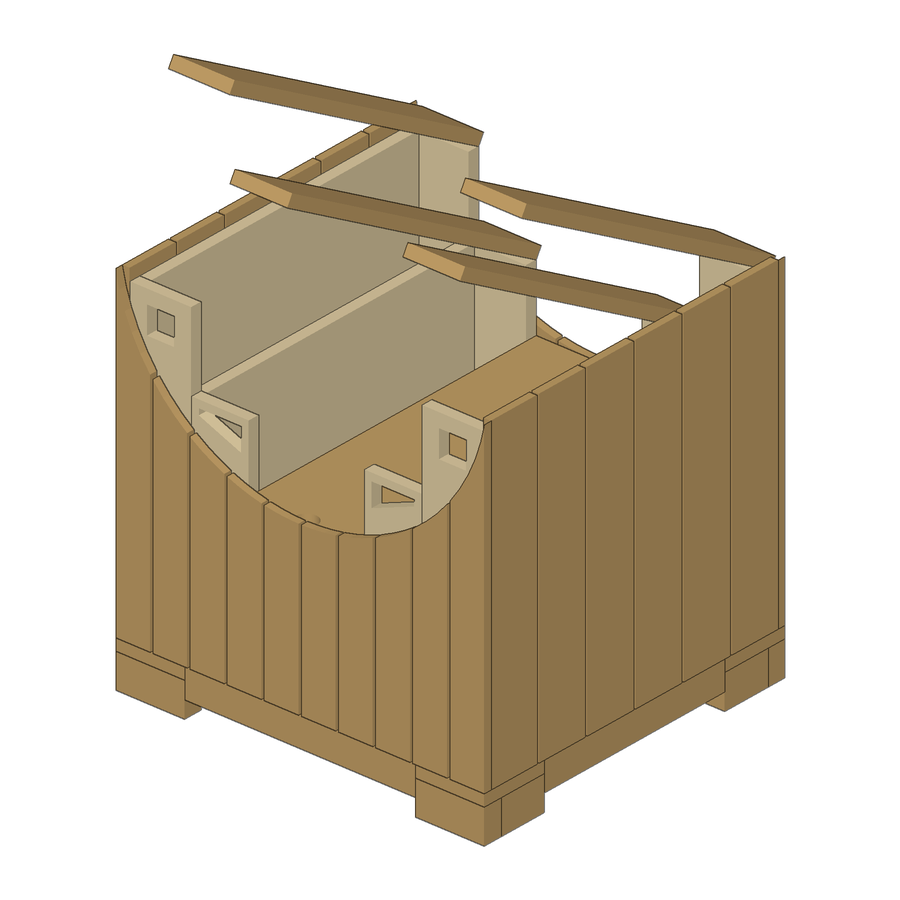
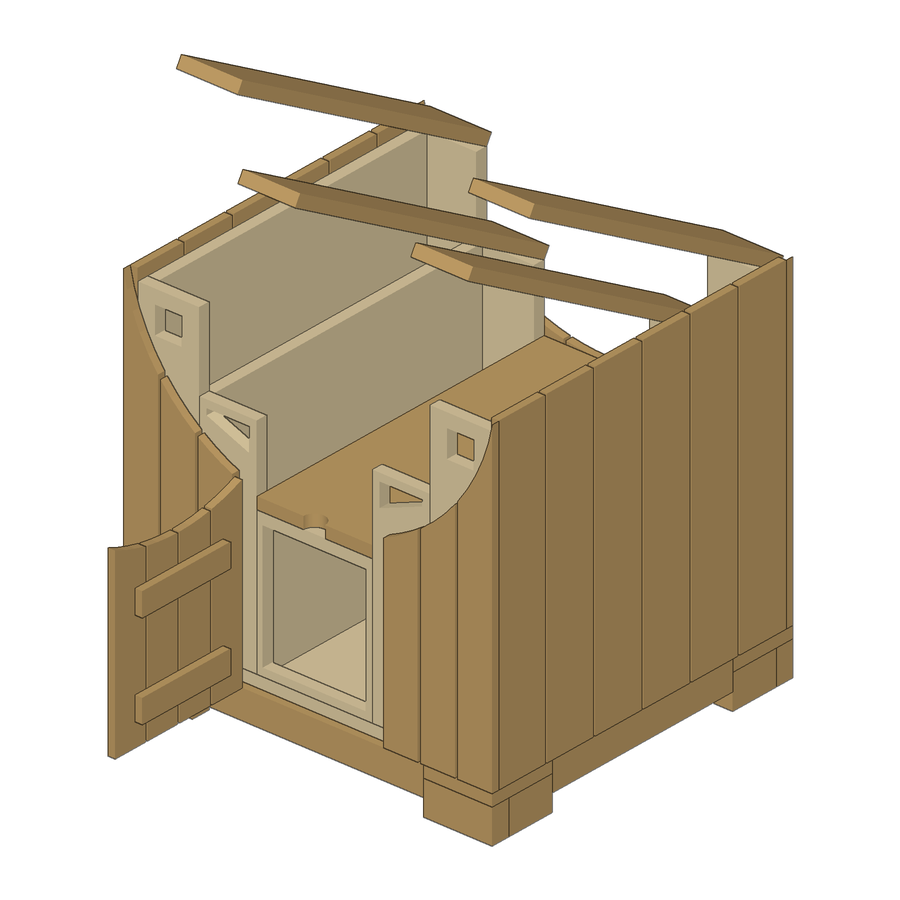
Front door: push-to-open, nothing visible on the face
Replace the round finger hole with a hidden magnetic push latch so the door reads as plain slats.
door_pull="bar" adds a slim vertical oak pull instead. The hinged door, final POSE pass for hinge
poses in Fusion, and a regenerated package, drawings and Fusion renders are included.

Claude-Session: https://claude.ai/code/session_017uaZNskFZj1b2HNuTtwSco

Changed region(s): [[0.0933, 0.0622, 0.9022, 0.9333], [0.5289, 0.9333, 0.56, 0.9644]]

diff --git a/src/fusionwright/cabinet.py b/src/fusionwright/cabinet.py
@@ -4,6 +4,8 @@ What the sketch shows and this generator models:
   * 24" W x 24" H x 22.5" D, vertical oak slats on all four sides (10 across front/back, 6 per side)
   * a large circular scoop: the front (and, by default, back) slat tops follow one arc from the two top corners
     down to the centre height, so the slats are real arc-cut parts
+  * a hinged front door in the middle section (the framed panel under the scoop in the 3/4 view): the four centre
+    slats on two oak battens, hinged on the left, push-to-open (no visible pull), opening onto the centre compartment
   * five hinged lids/doors side by side at three heights: towers 24", steps 19", centre 14"
   * stepped plywood carcass behind the slats; the carcass boxes stand proud of the arc; dark square openings on the
     tower fronts and dark wedge openings on the step fronts act as the finger pulls
@@ -50,6 +52,9 @@ def build_cabinet(
     arc_on_back: bool = True,
     open_deg: float = 0.0,
     open_sections: tuple[int, ...] = (0, 1, 3, 4),
+    door: bool = True,
+    door_open_deg: float = 0.0,
+    door_pull: str = "push",
     name: str = "Rolling oak slat cabinet",
 ) -> Project:
     inner_w = width - 2 * skin_t
@@ -74,6 +79,10 @@ def build_cabinet(
         raise ValueError(f"foot_arm must be at least {cs + 1.0} in so the L walls hide the caster.")
     if not 1 <= front_slats <= 40 or not 1 <= side_slats <= 40:
         raise ValueError("front_slats and side_slats must be between 1 and 40.")
+    if door_pull not in ("push", "bar"):
+        raise ValueError("door_pull must be 'push' (push-to-open, nothing visible) or 'bar' (slim vertical pull).")
+    if not 0.0 <= door_open_deg <= 120.0:
+        raise ValueError("door_open_deg must be between 0 and 120 degrees (0 = closed).")
 
     # scoop arc through the two top corners, lowest at the centre
     half, sag = width / 2, tower_h - center_h
@@ -102,7 +111,8 @@ def build_cabinet(
         params=dict(width=width, depth=depth, tower_h=tower_h, step_h=step_h, center_h=center_h, skin_t=skin_t,
                     front_slats=front_slats, side_slats=side_slats, slat_gap=slat_gap, ply_t=ply_t, lid_t=lid_t,
                     base_z=base_z, caster_h=caster_h, plate_t=plate_t, foot_arm=foot_arm, foot_t=foot_t,
-                    foot_clear=foot_clear, apron_z=apron_z, arc_on_back=arc_on_back, open_deg=open_deg,
+                    foot_clear=foot_clear, apron_z=apron_z, arc_on_back=arc_on_back, open_deg=open_deg, door=door,
+                    door_open_deg=door_open_deg, door_pull=door_pull,
                     section_widths=[round(w, 4) for w in section_widths], scoop_radius=round(R, 4),
                     scoop_sag=sag),
     )
@@ -110,6 +120,8 @@ def build_cabinet(
 
     def box_board(nm, group, mat, x, y, z, sx, sy, sz, grain="z", note=""):
         add(Board(nm, group, mat, x, y, z, sx, sy, sz, grain, None, None, note))
+
+    door_open_box: dict[str, float] = {}
 
     # ---------------------------------------------------------------- plywood carcass (my proposal)
     box_board("Bottom panel", "bottom panel", PLY, skin_t, skin_t, base_z, inner_w, inner_d, ply_t, "x")
@@ -124,6 +136,12 @@ def build_cabinet(
                 top = wall_top - 0.9
                 ops.append(sh.box(cx - s / 2, y0 - 0.05, top - s, s, ply_t + 0.1, s, "cut"))
                 note = "1-3/4 in square finger opening"
+            elif side == "Front" and i == 2 and door:              # access opening behind the front door
+                ox0, ox1 = sx0 + 0.4, sx0 + sw - 0.4
+                oz0, oz1 = carcass_z + 0.5, wall_top - 0.75
+                ops.append(sh.box(ox0, y0 - 0.05, oz0, ox1 - ox0, ply_t + 0.1, oz1 - oz0, "cut"))
+                note = "door opening, 6-3/4 in wide"
+                door_open_box.update(x0=ox0, x1=ox1, z0=oz0, z1=oz1)
             elif side == "Front" and i in (1, 3):                  # wedge opening on the step boxes
                 m, zt = 0.5, wall_top - 0.5
                 xa, xb = sx0 + m, sx0 + sw - m
@@ -159,6 +177,16 @@ def build_cabinet(
 
     # ---------------------------------------------------------------- vertical oak slats, four sides
     sw_x, pitch_x = _slats(width, front_slats, slat_gap)
+    # front slats whose centre falls inside the centre section form the door
+    door_js = [j for j in range(front_slats)
+               if door and x_edges[2] < j * pitch_x + sw_x / 2 < x_edges[3]]
+    if door and not door_js:
+        raise ValueError("The centre section is too narrow for a door: use fewer front_slats or a wider section.")
+    door_x0 = door_js[0] * pitch_x if door_js else 0.0
+    door_x1 = door_js[-1] * pitch_x + sw_x if door_js else 0.0
+    door_rot = None
+    if door_js and door_open_deg:                     # swing outward about the front-left corner (right-hand about +Z)
+        door_rot = {"o": [door_x0, 0.0, 0.0], "ax": [0.0, 0.0, 1.0], "deg": -float(door_open_deg)}
     for side, ya, yb, arc in (("front", 0.0, skin_t, True), ("back", depth - skin_t, depth, arc_on_back)):
         for j in range(front_slats):
             x0 = j * pitch_x
@@ -171,8 +199,28 @@ def build_cabinet(
             else:
                 path = sh.polygon([(x0, base_z), (x1, base_z), (x1, tower_h), (x0, tower_h)])
                 note = ""
-            add(Board.from_shape(f"Slat {side} {j + 1:02d}", f"{side} slat", OAK, [sh.prism("xz", path, ya, yb)],
-                                 None, "z", note))
+            ops = [sh.prism("xz", path, ya, yb)]
+            rot, label = None, f"Slat {side} {j + 1:02d}"
+            if side == "front" and j in door_js:
+                rot, label = door_rot, f"Slat front {j + 1:02d} (door)"
+                note += "; part of the front door"
+            add(Board.from_shape(label, f"{side} slat", OAK, ops, rot, "z", note))
+    if door_js:
+        bx0, bx1 = door_open_box["x0"] + 0.05, door_open_box["x1"] - 0.05      # battens sit inside the opening
+        for k, (zc, nm) in enumerate(((door_open_box["z0"] + 1.0, "low"), (door_open_box["z1"] - 1.0, "high"))):
+            add(Board.from_shape(f"Door batten {nm}", "door batten", OAK,
+                                 [sh.box(bx0, skin_t, zc - 0.75, bx1 - bx0, 0.5, 1.5)], door_rot, "x",
+                                 "ties the four door slats together; fasten from the back"))
+        p.hardware.append({"item": "Butt hinge 1-1/2 in (door, on the left edge)", "qty": 2, "for": "Front door"})
+        if door_pull == "bar":                        # slim vertical oak pull on the free edge (adds 1/2 in of depth)
+            zc = (door_open_box["z0"] + door_open_box["z1"]) / 2
+            add(Board.from_shape("Door pull bar", "door pull", OAK,
+                                 [sh.box(door_x1 - 1.0, -0.5, zc - 3.0, 0.5, 0.5, 6.0)], door_rot, "z",
+                                 "slim vertical grab bar, screwed from the back of the slats; adds 1/2 in to the depth"))
+            p.hardware.append({"item": "Magnetic catch (door)", "qty": 1, "for": "Front door"})
+        else:                                         # push-to-open: no visible pull at all
+            p.hardware.append({"item": "Push-to-open latch, magnetic, hidden behind the door (door)", "qty": 1,
+                               "for": "Front door"})
     sw_y, pitch_y = _slats(inner_d, side_slats, slat_gap)
     for side, xa in (("left", 0.0), ("right", width - skin_t)):
         for j in range(side_slats):
@@ -220,6 +268,9 @@ def build_cabinet(
     p.hardware.append({"item": f"Swivel caster, {caster_h} in overall height (2 locking)", "qty": 4, "for": "feet"})
 
     p.notes += [
+        "Front door: the framed panel under the scoop in the 3/4 view is read as an access door to the centre compartment "
+        "(four slats on two battens, hinged on the left, push-to-open so nothing shows on the front). The other compartments open through their lids. "
+        "Set door=False for no door, door_open_deg=90 to show it open.",
         "Read from the sketch: arc-cut slat tops, five lids at 24/19/14 in, stepped boxes, L-shaped corner feet hiding "
         "four casters (plate screwed under a top plate), slats stopping above the floor on an apron.",
         "Interpretations to confirm with the designer: the dark squares (tower fronts) and dark wedges (step fronts) "

diff --git a/src/fusionwright/server.py b/src/fusionwright/server.py
@@ -246,18 +246,23 @@ def wood_design_cabinet(width: float = 24.0, depth: float = 22.5, tower_h: float
                         center_h: float = 14.0, front_slats: int = 10, side_slats: int = 6, slat_gap: float = 0.15,
                         skin_t: float = 0.5, ply_t: float = 0.75, lid_t: float = 0.75, base_z: float = 3.25,
                         caster_h: float = 2.5, foot_arm: float = 4.5, arc_on_back: bool = True,
-                        open_deg: float = 0.0, section_widths: list[float] | None = None,
+                        open_deg: float = 0.0, door: bool = True, door_open_deg: float = 0.0,
+                        door_pull: str = "push",
+                        section_widths: list[float] | None = None,
                         name: str = "Rolling oak slat cabinet") -> dict:
     """Design the rolling oak-slat cabinet from the hand sketch (inches): vertical oak slats on four sides, a circular
     scoop cut through the slat tops, five hinged lids at 24/19/14 in, stepped plywood boxes with finger openings,
-    and four L-shaped corner feet that hide swivel casters. open_deg shows the lids hinged open (try 30).
+    a push-to-open front door onto the centre compartment (door_open_deg=90 shows it open; door_pull='bar' adds a
+    slim vertical pull), and four L-shaped corner feet
+    that hide swivel casters. open_deg shows the lids hinged open (try 30).
     Writes cut list, three-view drawing, sheet layout, STL, OBJ, project.json and, if CadQuery is installed, an exact
     STEP plus preview images."""
     try:
         p = build_cabinet(width=width, depth=depth, tower_h=tower_h, step_h=step_h, center_h=center_h,
                           front_slats=front_slats, side_slats=side_slats, slat_gap=slat_gap, skin_t=skin_t,
                           ply_t=ply_t, lid_t=lid_t, base_z=base_z, caster_h=caster_h, foot_arm=foot_arm,
-                          arc_on_back=arc_on_back, open_deg=open_deg, section_widths=section_widths, name=name)
+                          arc_on_back=arc_on_back, open_deg=open_deg, door=door, door_open_deg=door_open_deg, door_pull=door_pull,
+                          section_widths=section_widths, name=name)
     except ValueError as e:
         raise ToolError(str(e))
     d, engine = _save(p)
@@ -297,15 +302,16 @@ def wood_build_in_fusion(project: str = "") -> dict:
     boards = [b.__dict__ for b in p.boards]
     terms = {"oak": ["oak"], "ply": ["birch", "plywood", "maple", "pine"], "steel": ["steel"],
              "rubber": ["rubber", "black"]}
-    made = rotated = 0
+    made = 0
     for start in range(0, len(boards), 12):
         r = _fusion(S.BUILD, boards=boards, start=start, end=start + 12, appearance_terms=terms)
         made += r["made"]
-        rotated += r.get("rotated", 0)
+    rots = [{"name": b.name, "rot": b.rot} for b in p.boards if b.rot]
+    rotated = _fusion(S.POSE, rots=rots)["posed"] if rots else 0
     cuts = _fusion(S.CUTS, features=p.features)["finger_pulls_cut"] if p.features else []
     w, d, h = p.overall()
     check = fusion_check(expected_size_in=[w, d, h])
-    return {"parts_built": made, "hinged_open": rotated, "finger_pulls": len(cuts), "verification": check}
+    return {"parts_built": made, "posed_open": rotated, "finger_pulls": len(cuts), "verification": check}
 
 
 # ------------------------------------------------------------------ open-source CAD tools (CadQuery, no Fusion)

diff --git a/tests/unit/test_core.py b/tests/unit/test_core.py
@@ -43,7 +43,24 @@ def test_sketch_details_are_present():
     assert sum(n.endswith("wheel") for n in names) == 4 and sum(n.endswith("top plate") for n in names) == 4
     # wedge and square openings are cuts through the plywood fronts
     cuts = [b for b in p.boards if b.shape and any(o["op"] == "cut" for o in b.shape)]
-    assert len(cuts) >= 5
+    assert len(cuts) >= 6
+
+
+def test_front_door_opens_onto_the_centre_compartment():
+    p = build_cabinet()
+    door = [b for b in p.boards if "(door)" in b.name]
+    assert len(door) == 4 and sum(b.name.startswith("Door batten") for b in p.boards) == 2
+    wall = next(b for b in p.boards if b.name == "Front wall S3")
+    assert any(o["op"] == "cut" for o in wall.shape)                     # the opening the door covers
+    assert any("Push-to-open" in h["item"] for h in p.hardware)           # nothing visible on the front
+    assert not any(o["k"] == "cyl" and o["op"] == "cut" for b in door for o in b.shape)    # no hole, no pull
+    bar = build_cabinet(door_pull="bar")
+    assert any(b.name == "Door pull bar" for b in bar.boards) and bar.overall()[1] > 22.5
+    assert all(b.rot is None for b in door)                              # closed by default
+    opened = build_cabinet(door_open_deg=90)
+    assert all(b.rot and b.rot["deg"] == -90 for b in opened.boards if "(door)" in b.name or b.name.startswith("Door batten"))
+    assert opened.overall()[1] > 22.5 + 8                                # swings outward, clear of the front
+    assert not any("(door)" in b.name for b in build_cabinet(door=False).boards)
 
 
 def test_open_pose_rotates_the_lids_and_still_fits():
@@ -114,7 +131,7 @@ def test_stl_winding_is_outward_for_boxes_arcs_and_cylinders():
         a, b, c = v[i], v[i + 1], v[i + 2]
         vol += (a[0] * (b[1] * c[2] - b[2] * c[1]) - a[1] * (b[0] * c[2] - b[2] * c[0]) + a[2] * (b[0] * c[1] - b[1] * c[0])) / 6
     assert vol > 3000 and vol == pytest.approx(mesh_volume(p), rel=1e-6)
-    assert skipped_cuts(p) == 5                       # this fallback leaves cuts out and says so
+    assert skipped_cuts(p) == 6                       # this fallback leaves cuts out and says so
     assert to_obj(p).count("\no ") > 80
 
 
@@ -148,6 +165,10 @@ def test_bad_params_are_explained():
         build_cabinet(center_h=30)
     with pytest.raises(ValueError, match="base_z"):
         build_cabinet(base_z=2.0)
+    with pytest.raises(ValueError, match="door_pull"):
+        build_cabinet(door_pull="knob")
+    with pytest.raises(ValueError, match="door_open_deg"):
+        build_cabinet(door_open_deg=200)
     with pytest.raises(ValueError, match="foot_arm"):
         build_cabinet(foot_arm=3.5)
 

diff --git a/src/fusionwright/backends/fusion_scripts.py b/src/fusionwright/backends/fusion_scripts.py
@@ -159,7 +159,7 @@ def _make_op(comp, o, body):
         sk.sketchCurves.sketchLines.addByTwoPoints(_pt(sk, _to3(pl, cur[0], cur[1], a)), _pt(sk, _to3(pl, start[0], start[1], a)))
     return _extrude(comp, sk, a, b, s, op, body)
 
-made, skipped, rotated = 0, 0, 0
+made, skipped = 0, 0
 for b in boards[start:end]:
     if b['name'] in existing:
         skipped += 1
@@ -177,19 +177,30 @@ for b in boards[start:end]:
     ap = aps.get(b['material'])
     if ap is not None:
         body.appearance = ap
-    r = b.get('rot')
-    if r:
-        m = adsk.core.Matrix3D.create()
-        m.setToRotation(math.radians(r['deg']), adsk.core.Vector3D.create(*r['ax']),
-                        P3(r['o'][0] * IN, r['o'][1] * IN, r['o'][2] * IN))
-        try:
-            occ.transform2 = m
-        except Exception:
-            occ.transform = m
-        rotated += 1
     made += 1
-result = {'made': made, 'skipped_existing': skipped, 'rotated': rotated, 'occurrences': root.occurrences.count,
+result = {'made': made, 'skipped_existing': skipped, 'occurrences': root.occurrences.count,
           'appearances_applied': sorted(aps)}
+'''
+
+POSE = r'''
+# Hinge poses are applied in a separate pass AFTER every part is built: an occurrence transform set while
+# features are still being added is dropped by the next recompute.
+n = 0
+for item in ARGS['rots']:
+    occ = next((o for o in root.occurrences if o.component.name == item['name']), None)
+    if occ is None:
+        continue
+    r = item['rot']
+    m = adsk.core.Matrix3D.create()
+    m.setToRotation(math.radians(r['deg']), adsk.core.Vector3D.create(*r['ax']),
+                    P3(r['o'][0] * IN, r['o'][1] * IN, r['o'][2] * IN))
+    try:
+        occ.transform2 = m
+    except Exception:
+        occ.transform = m
+    n += 1
+adsk.doEvents()
+result = {'posed': n}
 '''
 
 CUTS = r'''

diff --git a/tests/unit/test_mcp_server.py b/tests/unit/test_mcp_server.py
@@ -114,7 +114,7 @@ def test_cad_check_and_export_on_the_cabinet(tmp_path):
             await c.call_tool("wood_design_cabinet", {"open_deg": 30})
             chk = await c.call_tool("cad_check", {})
             data = json.loads(_text(chk))
-            assert data["parts"] == 90 and data["all_valid"] is True and data["problems"] == []
+            assert data["parts"] == 92 and data["all_valid"] is True and data["problems"] == []
             tall = json.loads(_text(await c.call_tool("cad_check", {"expected_size_in": [24, 22.5, 24]})))
             assert tall["passed"] is False and "Z size" in tall["problems"][0]      # open lids rise above 24 in
             ex = await c.call_tool("cad_export", {"format": "step"})

diff --git a/docs/example_cutlist.md b/docs/example_cutlist.md
@@ -14,8 +14,9 @@
 | 2 | White oak (solid) | 1/2" | 1 7/8" | 15" | Apron front, Apron back |
 | 2 | White oak (solid) | 1/2" | 1 7/8" | 13 1/2" | Apron left, Apron right |
 | 4 | White oak (solid) | 1/2" | 2 1/4" | 13 1/8" | Slat front 03, Slat front 08, Slat back 03 +1 more |
-| 4 | White oak (solid) | 1/2" | 2 1/4" | 11 3/4" | Slat front 04, Slat front 07, Slat back 04 +1 more |
-| 4 | White oak (solid) | 1/2" | 2 1/4" | 11" | Slat front 05, Slat front 06, Slat back 05 +1 more |
+| 4 | White oak (solid) | 1/2" | 2 1/4" | 11 3/4" | Slat front 04 (door), Slat front 07 (door), Slat back 04 +1 more |
+| 4 | White oak (solid) | 1/2" | 2 1/4" | 11" | Slat front 05 (door), Slat front 06 (door), Slat back 05 +1 more |
+| 2 | White oak (solid) | 1/2" | 1 1/2" | 6 5/8" | Door batten low, Door batten high |
 | 1 | Birch plywood | 3/4" | 21 1/2" | 23" | Bottom panel |
 | 2 | Birch plywood | 3/4" | 19 1/4" | 20" | End wall left, End wall right |
 | 2 | Birch plywood | 3/4" | 14 1/4" | 20" | Divider D1, Divider D4 |
@@ -24,7 +25,7 @@
 | 4 | Birch plywood | 3/4" | 3 3/4" | 14 1/4" | Front wall S2, Back wall S2, Front wall S4 +1 more |
 | 2 | Birch plywood | 3/4" | 7 1/2" | 9 1/4" | Front wall S3, Back wall S3 |
 
-**Solid lumber:** 9.2 board feet net, buy about 10.6 bf (+15% waste).
+**Solid lumber:** 9.27 board feet net, buy about 10.7 bf (+15% waste).
 **Sheet goods:** 19.9 sq ft net (see the nesting layout for sheets to buy).
 
 ## Hardware
@@ -36,10 +37,13 @@
 | 2 | Butt hinge 2 in | Lid S3 |
 | 2 | Butt hinge 2 in | Lid S4 |
 | 2 | Butt hinge 2 in | Lid S5 |
+| 2 | Butt hinge 1-1/2 in (door, on the left edge) | Front door |
+| 1 | Push-to-open latch, magnetic, hidden behind the door (door) | Front door |
 | 4 | Swivel caster, 2.5 in overall height (2 locking) | feet |
 
 ## Notes
 
+- Front door: the framed panel under the scoop in the 3/4 view is read as an access door to the centre compartment (four slats on two battens, hinged on the left, push-to-open so nothing shows on the front). The other compartments open through their lids. Set door=False for no door, door_open_deg=90 to show it open.
 - Read from the sketch: arc-cut slat tops, five lids at 24/19/14 in, stepped boxes, L-shaped corner feet hiding four casters (plate screwed under a top plate), slats stopping above the floor on an apron.
 - Interpretations to confirm with the designer: the dark squares (tower fronts) and dark wedges (step fronts) are modelled as finger openings through the plywood front wall; the tilted blocks in the 3/4 view are the lids shown open (use open_deg); the scoop is cut in both the front and the back skin (arc_on_back).
 - My proposal, not in the sketch: plywood carcass, dividers, lid hinges at the back, centre-lid finger notch, apron height, caster size.

diff --git a/README.md b/README.md
@@ -12,9 +12,9 @@ An open-source [MCP](https://modelcontextprotocol.io) server that lets an AI ass
 
 ![Rolling oak slat cabinet, rendered by Fusion](docs/images/render.png)
 
-> Built, rendered and checked end to end through this server, from a hand sketch: 90 named parts (arc-cut slats, hinged lids, finger openings, L-shaped feet hiding four casters), 24 x 22.5 x 24 in, zero interferences, one 4x8 plywood sheet, ~9.2 board feet of oak. The Fusion model and the open-source CadQuery model agree to the cubic inch (3454.89 in3). Details of how the sketch was read: [docs/SKETCH_SPEC.md](docs/SKETCH_SPEC.md).
+> Built, rendered and checked end to end through this server, from a hand sketch: 92 named parts (arc-cut slats, hinged lids, a hinged front door, finger openings, L-shaped feet hiding four casters), 24 x 22.5 x 24 in, zero interferences, one 4x8 plywood sheet, ~9.2 board feet of oak. The Fusion model and the open-source CadQuery model agree to the cubic inch (3454.89 in3). Details of how the sketch was read: [docs/SKETCH_SPEC.md](docs/SKETCH_SPEC.md).
 
-![Same cabinet with the lids hinged open, built with no Autodesk software](docs/images/open_iso_opensource.png)
+![Same cabinet with the lids and the front door open, built with no Autodesk software](docs/images/open_iso_opensource.png)
 
 ![Builder drawing generated with no CAD](docs/images/drawing_three_view.svg)
 
@@ -46,7 +46,7 @@ A small surface on purpose: [fewer, higher-level tools beat dozens of thin wrapp
 
 | Tool | Purpose |
 |---|---|
-| `wood_design_cabinet` | Parametric slatted rolling cabinet (arc scoop, five hinged lids, casters hidden in L-shaped feet; `open_deg` poses the lids open); writes cut list, drawing, sheet layout, STL, OBJ, project.json, and with CadQuery an exact STEP + previews |
+| `wood_design_cabinet` | Parametric slatted rolling cabinet (arc scoop, five hinged lids, a push-to-open front door onto the centre compartment, casters hidden in L-shaped feet; `open_deg` / `door_open_deg` pose the lids and door open); writes cut list, drawing, sheet layout, STL, OBJ, project.json, and with CadQuery an exact STEP + previews |
 | `cad_run` | Run CadQuery code for any solid; returns STEP, STL, measurements and previews (open source, no Fusion) |
 | `cad_preview` | Shaded previews of the last `cad_run` result or the current project (8 views), no CAD application needed |
 | `cad_check` | Exact kernel check of the project: validity, boolean interference, expected size |

diff --git a/docs/SKETCH_SPEC.md b/docs/SKETCH_SPEC.md
@@ -16,10 +16,13 @@ column "Certainty" says how sure the reading is.
 | 8 | Slat panel stops above the floor; a band between the feet in the frontal and lateral views | oak apron on all four sides between the feet | high |
 | 9 | Four L-shaped corner feet in plan view, each with a circle (wheel) inside | each foot is two oak walls forming an L plus a top plate; a swivel caster (plate, swivel, two fork plates, wheel) is hidden inside | high |
 | 10 | Inset drawing: wheel mounted under a plate | caster plate screwed under the foot top plate; wheel clears the floor line by design | high |
-| 11 | Small notch at the front of the top strip | half-round finger notch in the centre lid | low |
+| 11 | A framed panel of vertical bars under the scoop in the 3/4 view (a door in the middle of the front) | front door: the four centre slats on two oak battens, hinged on the left (2 butt hinges), push-to-open with a hidden magnetic latch so nothing shows on the front (`door_pull="bar"` adds a slim vertical pull instead), opening onto the centre compartment through a 6 3/4 in wide opening in the plywood front wall; `door=False` removes it, `door_open_deg=90` shows it open | medium |
+| 12 | Small notch at the front of the top strip | half-round finger notch in the centre lid | low |
 
 Not in the sketch (my engineering proposal, flagged in `project.notes`): the plywood carcass behind the slats, the
 dividers, lid hinges (2 per lid), apron height, caster size, and the exact finger-opening shapes.
+
+The other four compartments are reached through their lids; the sketch shows no other door.
 
 Questions worth confirming with the designer before cutting wood: (a) is the scoop also cut in the back? (default
 yes, `arc_on_back=False` for a plain back), (b) are the tilted blocks open lids, (c) do the dark squares/wedges mean

diff --git a/docs/GOTCHAS.md b/docs/GOTCHAS.md
@@ -19,6 +19,7 @@ Each of these cost a failed test before it was understood. They are baked into t
 | Each tool call must finish fast | add-ins run code on the main thread | chunk big builds (this project builds a handful of parts per call) |
 | A sketch on the XZ plane extrudes the wrong way or lands mirrored | the plane normal and the sketch axes depend on the document's orientation | place points with `sketch.modelToSketchSpace`, and pick `Positive`/`Negative` extent from the sign of `plane.geometry.normal` (done in `BUILD`) |
 | Rotating a part inside its component moves the wrong thing | the component's own origin stays put | build in model coordinates inside an identity-transform occurrence, then set `occurrence.transform2` to a rotation about the hinge line |
+| A hinge pose set while building silently vanishes | the next recompute resets an occurrence transform | apply every pose in one pass after all parts are built (`POSE`) |
 | `fusion_render` came out black | the camera was left under the model by the last `bottom` look | set an iso view with `fusion_look` right before rendering |
 | `list[Any]` return type of an MCP tool fails to serialize `Image` | structured-output schema | annotate as `list[str | Image]` |
 
